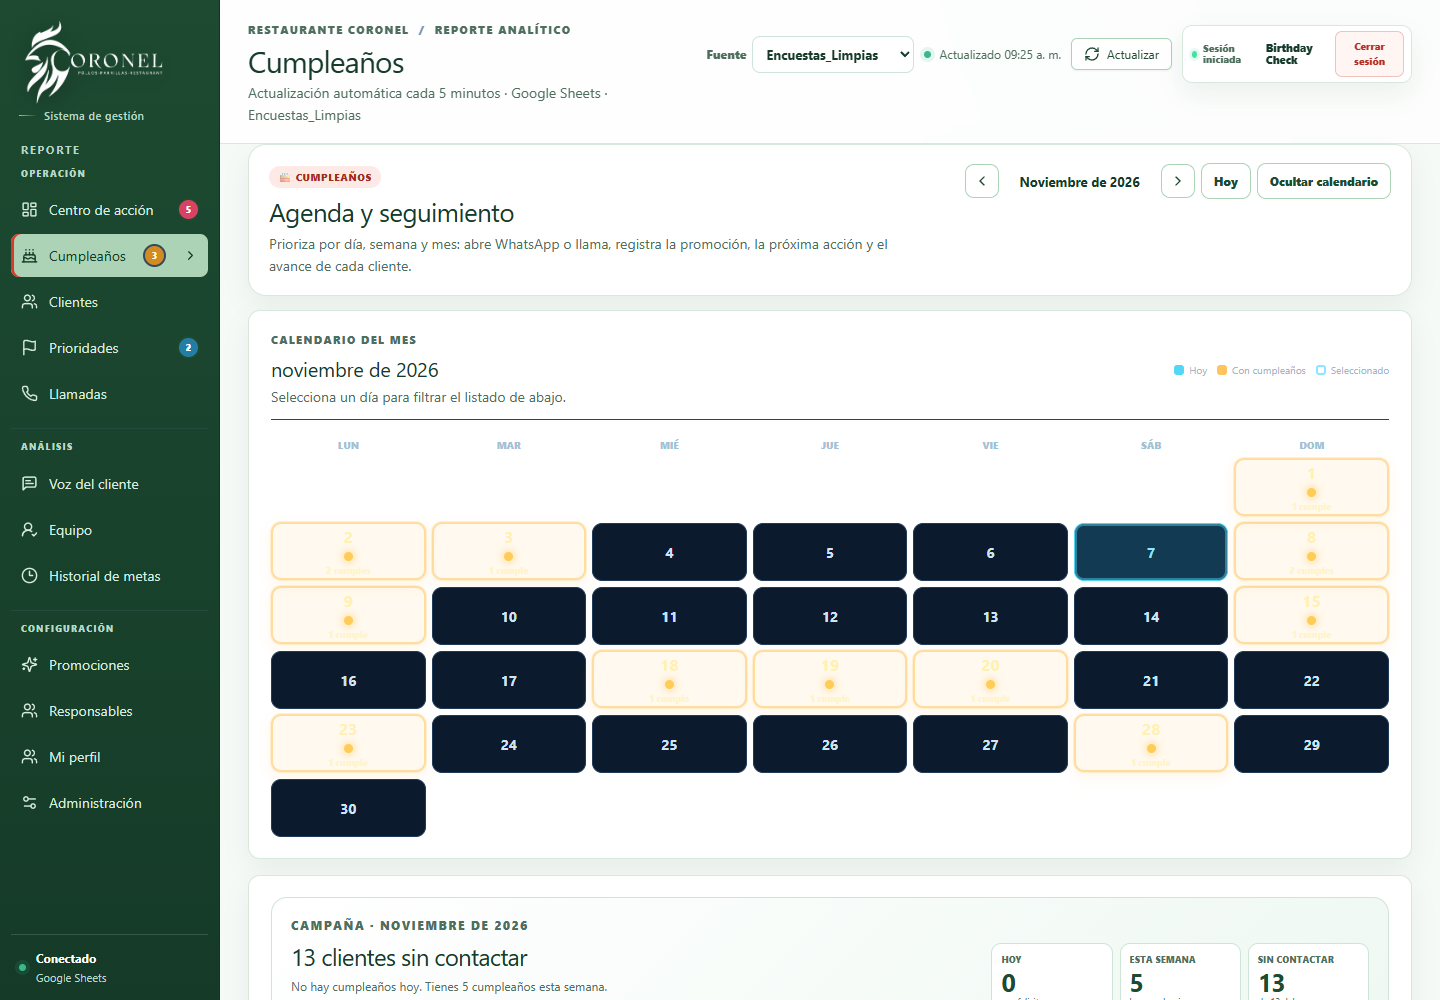
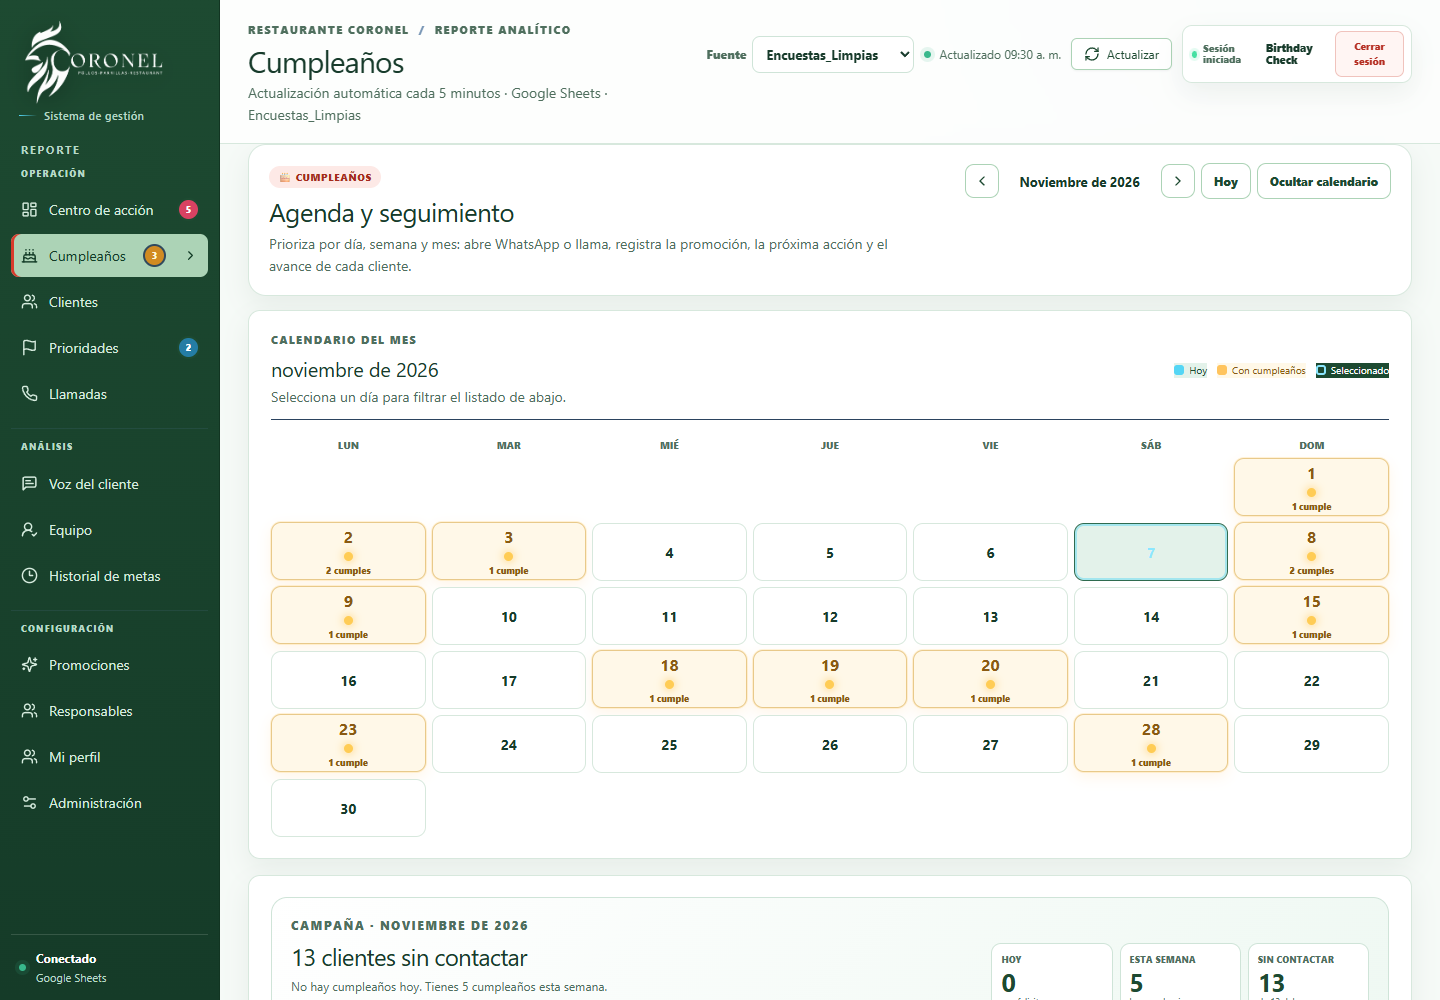
Ajustar contraste del dia actual en calendario de cumpleanos

diff --git a/client/src/index.css b/client/src/index.css
@@ -2234,3 +2234,6 @@ button, .stat-card, .priority-item, .admin-promotion-row, .admin-user-row, .voic
   .birthday-funnel-compact { padding: 10px 11px; }
   .birthday-funnel-compact .birthday-stage:nth-child(n+3) { margin-top: 2px; }
 }
+
+.birthday-calendar-day.today strong, .birthday-calendar-day.today small { color: #1d4a31 !important; }
+.bw-card-seguimiento .bw-days { color: #8a5a12 !important; }
